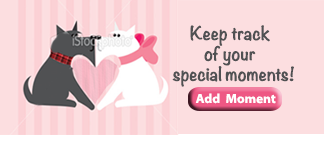
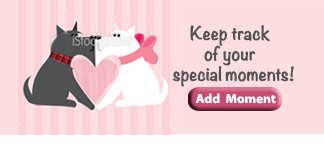
made lots of changes

Changed region(s): [[0.5864, 0.56, 0.8642, 0.7467]]

diff --git a/JQMobile Template/index.html b/JQMobile Template/index.html
@@ -30,7 +30,7 @@
 </head>
 <body>
      
-     <div data-role="page" id="home">
+     <div data-role="page" id="home"style="background-image:url(images/img/pinkb.png)" data-position="fixed">
 
           <div data-role="header" data-position="fixed" data-theme="a"> 
       <div data-role="content">
@@ -39,23 +39,19 @@
 </div>
 
 
-  
-         <!--Add image here-->
-<!--          <div data-role="content"> -->
-
 
   <data data-role="content">
 
 <div id="logo">
-    <a href="#addamoment"><img  src="images/puppylove3.png" ="Logo"/></a>
+    <a href="#addamoment"><img  src="images/puppylove4.png" ="Logo"/></a>
 
         </div>
  <!--         </div> -->
       
       
           <div data-role="content"> 
-                <ul data-role="listview" data-theme="c" data-filter="true" data-inset="true"> 
-                      <li data-role="list-divider" data-theme="d" >Browse Moments</li>              
+                <ul data-role="listview" data-theme="c" data-filter="true" data-inset="false"> 
+                      <li data-role="list-divider"  >Browse Moments</li>              
                	           <li><a href="#met" ><img src="images/img/09-chat-2@2x.png" class="ui-li-icon"/>
                               <h3>First Met</h3></a></li>
                            <li><a href="#date" ><img src="images/img/299-ticket@2x.png" class="ui-li-icon"/>
@@ -85,7 +81,7 @@
 
 
      <!-- Start of first page About Page-->
-<div data-role="page" id="about" data-add-back-btn="true" data-position="left" style="background-image:url(images/img/backgroundpink.png)">
+<div data-role="page" id="about" data-add-back-btn="true" data-position="left" style="background-image:url(images/img/pinkb.png)">
 
 
 	<div data-role="header">
@@ -102,7 +98,7 @@
 	     
 	<div data-role="collapsible-set">
    
-	<div data-role="collapsible" data-collapsed="false" style="white">
+	<div data-role="collapsible" data-collapsed="false" >
 	<h3>About My Love Tracker App</h3>
 	<p>My Love Tracker is a fun app made to keep track of all your relationships special moments.</p>
 	</div>
@@ -110,12 +106,12 @@
 	<div data-role="collapsible">
 	<h3>App Created by</h3>
 	<p>Bernice A. Johnson: Designer/Mobile Developer</p>
-	<p>copy right 2012</p>
+	<p>copyright 2012</p>
 	</div>
 
 	<div data-role="collapsible">
 	<h3>My Contact Information</h3>
-	<p>Email: bernicejohnson@fullsail.com</p>
+	<p>Email: bernicejohnson@fullsail.edu</p>
 	</div>
 	
 	<div data-role="collapsible">
@@ -139,7 +135,7 @@
 		
 
 <!-- Start of First Met-->
-<div data-role="page" id="met" data-add-back-btn="true" style="background-image:url(images/img/backgroundpink.png)" data-position="fixed">
+<div data-role="page" id="met" data-add-back-btn="true" style="background-image:url(images/img/pinkb.png)" data-position="fixed">
 
 
 	<div data-role="header"  data-position="fixed">
@@ -171,7 +167,7 @@
 
 
 <!-- Start of First Date-->
-<div data-role="page" id="date"  data-add-back-btn="true" >
+<div data-role="page" id="date"  data-add-back-btn="true" style="background-image:url(images/img/pinkb.png)" data-position="fixed">
 
 	<div data-role="header"  data-position="fixed" >
 		 <div data-role="content">
@@ -201,7 +197,7 @@
 		
 
 <!-- Start of First Kiss-->
-<div data-role="page" id="kiss" data-add-back-btn="true" >
+<div data-role="page" id="kiss" data-add-back-btn="true" style="background-image:url(images/img/pinkb.png)" data-position="fixed">
 
 	<div data-role="header" data-position="fixed">
 		<div data-role="content">
@@ -228,7 +224,7 @@
      </div>
 
 <!-- Start of First I love you-->
-<div data-role="page" id="loveyou" data-add-back-btn="true" >
+<div data-role="page" id="loveyou" data-add-back-btn="true" style="background-image:url(images/img/pinkb.png)" data-position="fixed">
 
 	<div data-role="header" data-position="fixed">
 		<div data-role="content">
@@ -255,7 +251,7 @@
 
 
 <!-- Start of Special Moments-->
-<div data-role="page" id="special moments" data-add-back-btn="true" >
+<div data-role="page" id="special moments" data-add-back-btn="true" style="background-image:url(images/img/pinkb.png)" data-position="fixed">
 
 	<div data-role="header" data-position="fixed">
 		<div data-role="content">
@@ -281,16 +277,19 @@
      </div>
 		
  <!-- Start of Git Links-->
-<div data-role="page" id="git" data-add-back-btn="true" style="background-image:url(images/img/backgroundpink.png)" data-position="fixed">
+<div data-role="page" id="git" data-add-back-btn="true" style="background-image:url(images/img/pinkb.png)" data-position="fixed">
 
 	<div data-role="header" data-position="fixed">
-		<h1>Git Links</h1>
+
+		<div data-role="content">
+         	<img  src="images/img/logo2.png" ="Logo" />
+     </div> 
 	</div><!-- /header -->
 
 	<div data-role="content">
           <ul data-role="listview"  data-inset="true" data-theme="c">
                 <!--Creats A Header Above-->   
-                   <li data-role="list-divider"  data-theme="d">My Git links below</li>          
+                   <li data-role="list-divider"  data-theme="c"  >My Git links below</li>          
                	   <li><a href="https://github.com/bjohnson6/miugold2">Gold App</a></li>
                	   <li><a href="https://github.com/bjohnson6/miubronze3">Bronze App</a></li> 	  
            </ul>		
@@ -310,15 +309,18 @@
      </div>
 
      <!--Start of additempage-->
-         <div data-role="page" id="addamoment" data-add-back-btn="true" >
+         <div data-role="page" id="addamoment" data-add-back-btn="true" style="background-image:url(images/img/pinkb.png)" data-position="fixed">
 
          	   <div data-role="header" data-position="fixed">
-         	   	  <h1>Add A Moment</h1>
+         	<!--   	 <div data-role="content"> -->
+         <h1><img  src="images/img/logo2.png" ="Logo" data-position="left"/></h1>
+ <!--    </div> -->
          	   </div>	<!--/header-->
        
            
      <!--ADD Moment FORM-->
          <div data-role="content">
+         	
          	<p>*fields required</p>
 
          	<form action="" method="post" id="addmomentform">
@@ -327,7 +329,7 @@
          	  	   <label for="Add A Moment">*Choose A Moment</label>
          	  	   
          	 
-         	  	   <select name="Choose A Moment" id="Choose A Moment" data-native-menu="false" class="required">
+         	  	   <select name="Choose A Moment" id="Choose A Moment" data-native-menu="true" class="required">
          	  	   	  <option data-placeholder="true" value=>Please Select One</option>
          	  	   	  <optgroup label="Choose A Moment">      
          	  	   	     <option value="First Met">First Met</option>

diff --git a/JQMobile Template/css/style.css b/JQMobile Template/css/style.css
@@ -6,6 +6,31 @@ label.error{display:block; margin:10px 0; color: #cc0000;}
 
 #myerrorslink{display:none;}
 
+.ui-bar-b {
+	background: #c35574;
+border: 1px solid #c35574;
+background: #c35574;
+color: white;
+font-weight: bold;
+
+
+}
+div.ui-collapsible-content{
+	background-color: white;
+	font-color: black;
+}
+div.ui-bar-b.ui-corner-top{
+	color:white;
+}
+
+form{
+	background-color: white;
+}
+
+.ui-body-c textarea{
+	font-color: black;
+}
+
 <style type="text/css">
 body {
     background: url(images/img/backgroundpink.png);
